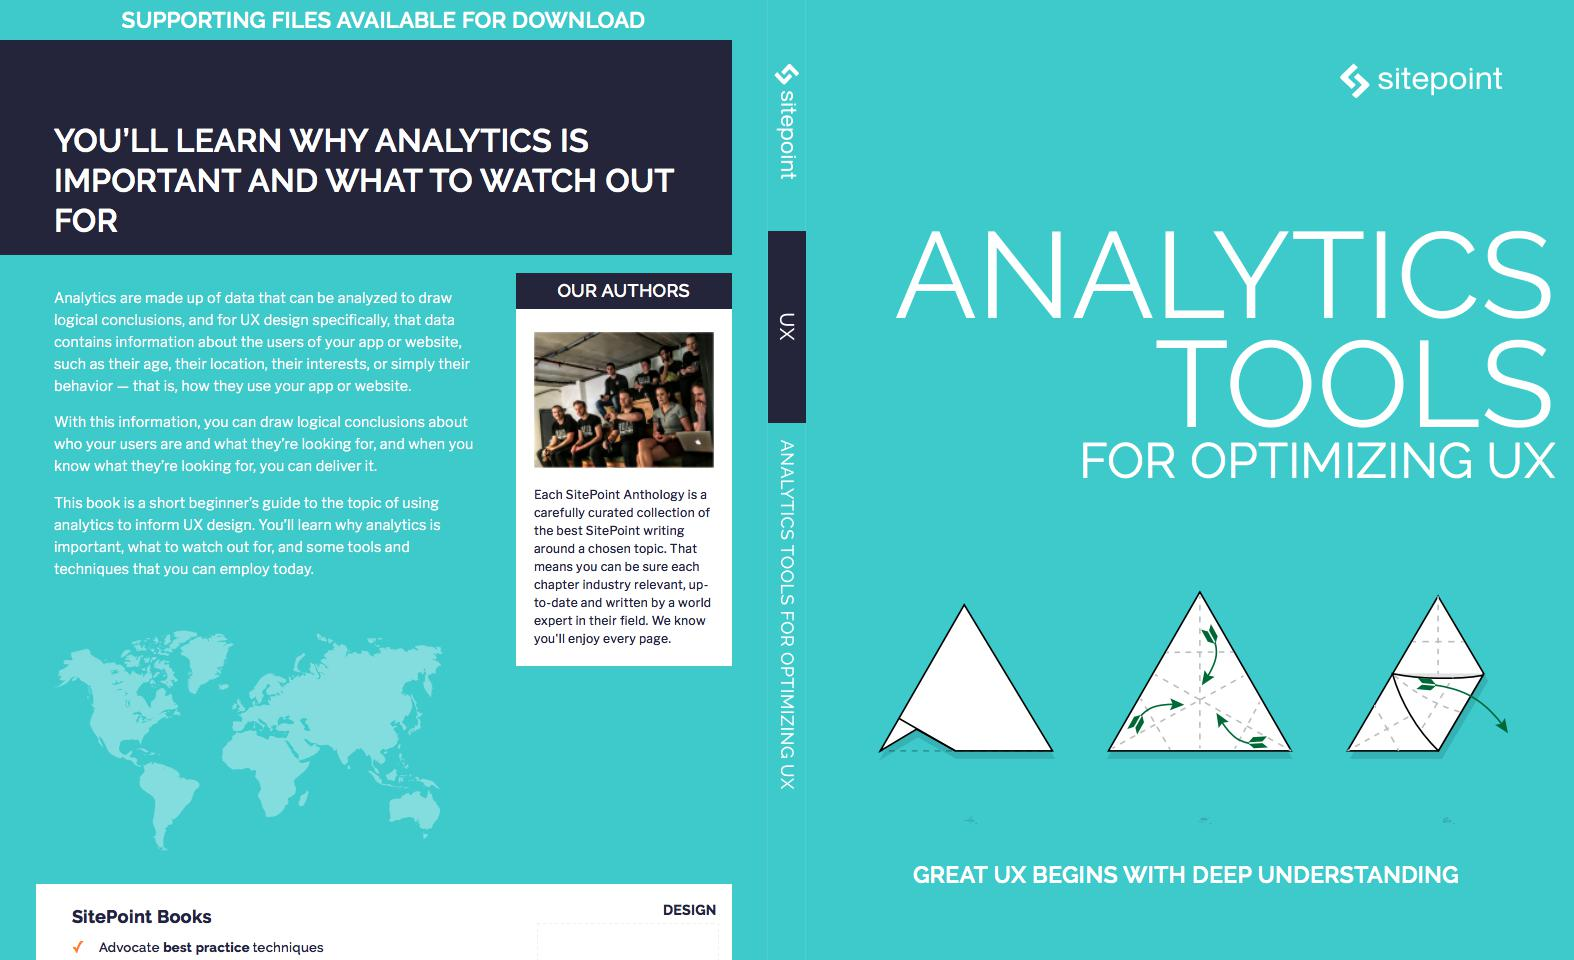
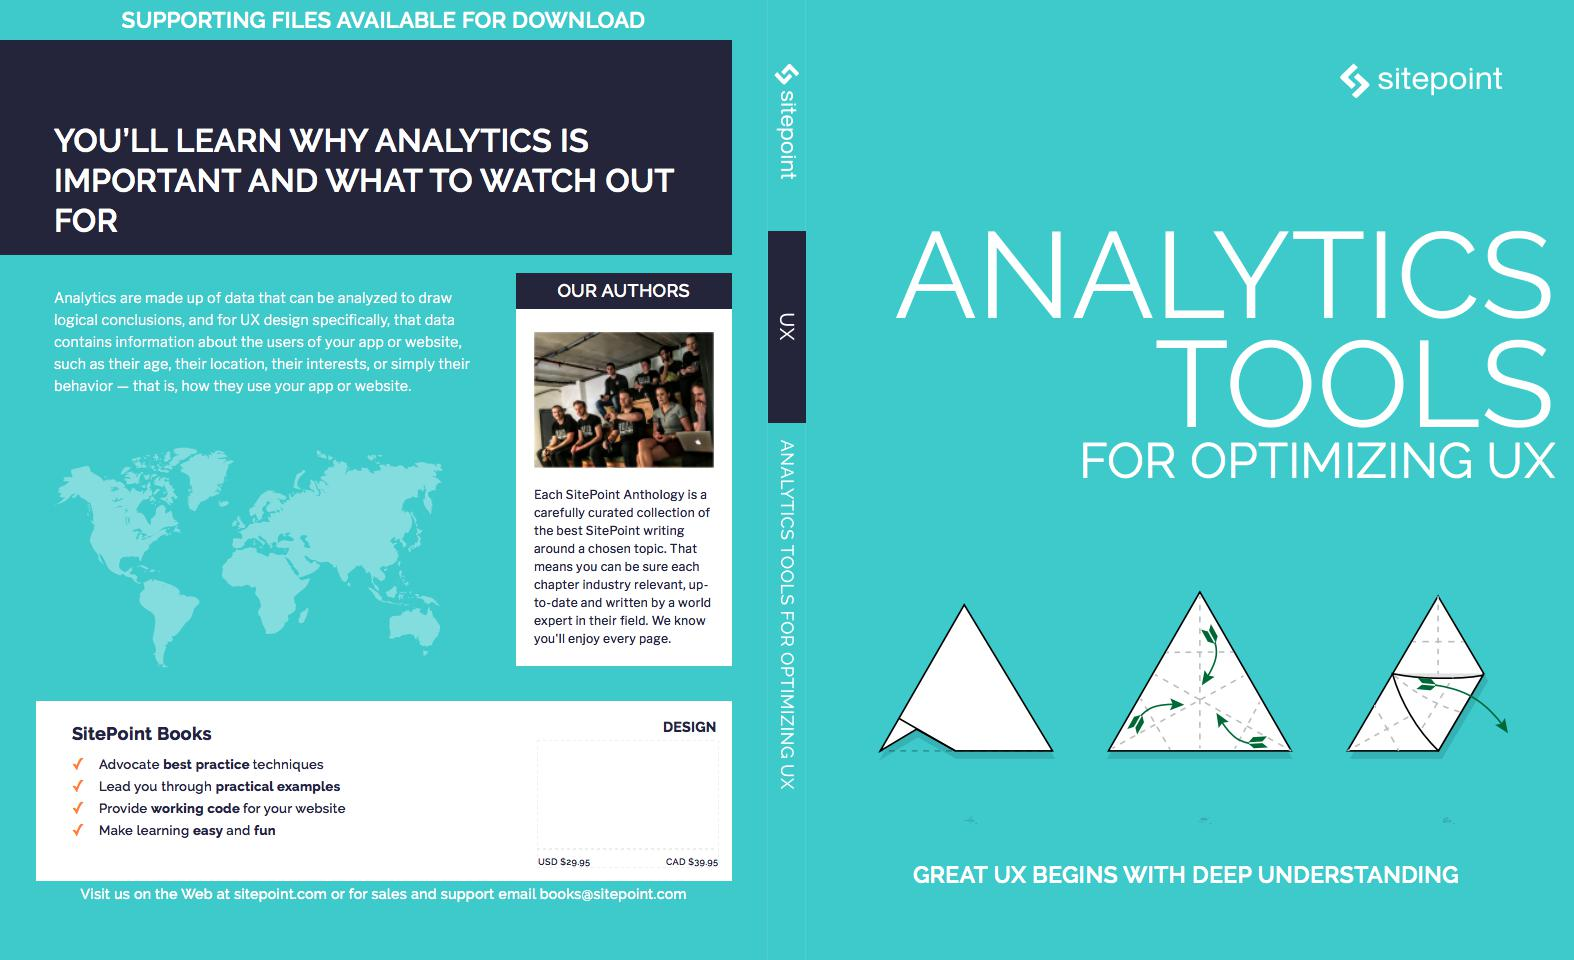
analytics book 2

Changed region(s): [[0.0, 0.4375, 0.467, 1.0]]

diff --git a/src/docs/html/cover-spread.html b/src/docs/html/cover-spread.html
@@ -17,8 +17,6 @@
 .author-box h4 {
   background: #24243B;
   }</style><!-- SVG Start: logo symbol--><svg width="0" height="0" style="display: none;"><defs><style>.cls-1{fill:none;}.cls-2{clip-path:url(#clip-path);}.cls-3{fill:#fff;}</style><clippath id="clip-path"><rect class="cls-1" width="131.9" height="28.83"></rect></clippath><symbol id="SitePoint_Logo_" data-name="SitePoint Logo " viewbox="0 0 131.9 28.8"><g class="cls-2"><path class="cls-3" d="M33.8,10.9a2.4,2.4,0,0,1,.9-.8l1.1-.4,1.4-.2h1.1l1.1.3a1.6,1.6,0,0,1,.8.6,1.9,1.9,0,0,1,.3,1,1.3,1.3,0,0,1-.7,1.3,3.3,3.3,0,0,1-1.6.7L36,14l-2.2.6a4.8,4.8,0,0,0-1.6,1.2,2.6,2.6,0,0,0-.7,2,2.6,2.6,0,0,0,.5,1.7,3.4,3.4,0,0,0,1.2,1.2,4.6,4.6,0,0,0,1.6.7l1.8.2,2.2-.2a3.6,3.6,0,0,0,1.7-.7,2.4,2.4,0,0,0,1.3-1.3,4.6,4.6,0,0,0,.5-2H40a2,2,0,0,1-.3,1.1l-.8.7-1,.3H35.8l-.9-.3a1.2,1.2,0,0,1-.7-.5,1.3,1.3,0,0,1,.1-1.8,2.4,2.4,0,0,1,1.1-.6l1.4-.4,1.6-.4,1.7-.4a3.7,3.7,0,0,0,1.4-.7,3.6,3.6,0,0,0,1-1.1,2.2,2.2,0,0,0,.4-1.6,4.6,4.6,0,0,0-.5-2A5.3,5.3,0,0,0,41,8.5l-1.9-.7L37,7.6a7.6,7.6,0,0,0-2.1.3,6.2,6.2,0,0,0-1.9.7A5.7,5.7,0,0,0,31.7,10a5.4,5.4,0,0,0-.5,2.1h2.3a2.7,2.7,0,0,1,.3-1.2"></path><rect class="cls-3" x="45.6" y="8" width="2.3" height="13.35"></rect><path class="cls-3" d="M57.2,21.3v-2H54.5V11a1.3,1.3,0,0,1,.1-.6c0-.1.1-.3.2-.3l.5-.2h1.9v-2H54l-1,.5a1.6,1.6,0,0,0-.6.8,7.7,7.7,0,0,0-.2,1.5v8.6H49.9v2h2.3v4h2.3v-4Z"></path><path class="cls-3" d="M69.5,8.8a6.7,6.7,0,0,0-3.9-1.2,8.7,8.7,0,0,0-2.8.5,8,8,0,0,0-2.1,1.5,5.3,5.3,0,0,0-1.2,2.2,9.2,9.2,0,0,0-.5,2.8,8.7,8.7,0,0,0,.5,2.8,6.1,6.1,0,0,0,1.3,2.2,8,8,0,0,0,2.1,1.5,5.8,5.8,0,0,0,2.6.5,4.6,4.6,0,0,0,3-.8,4.9,4.9,0,0,0,2-1.8,6.9,6.9,0,0,0,1-2.5,7.4,7.4,0,0,0,.2-2.6H61.4a10,10,0,0,1,.2-1.6,2.9,2.9,0,0,1,.8-1.4,3.6,3.6,0,0,1,1.4-1,5.8,5.8,0,0,1,1.9-.4,4.8,4.8,0,0,1,2.4.7,3.2,3.2,0,0,1,1.2,2h2.2a5.5,5.5,0,0,0-2-3.4M69,17.3a2.7,2.7,0,0,1-.9,1.2,2,2,0,0,1-1.2.8l-1.5.3a4.5,4.5,0,0,1-1.6-.3,2,2,0,0,1-1.2-.8,2.7,2.7,0,0,1-.9-1.2,3.2,3.2,0,0,1-.3-1.4h7.9a3.2,3.2,0,0,1-.3,1.4"></path><path class="cls-3" d="M76.4,21.3V19.5h.1a3.7,3.7,0,0,0,1.7,1.6,6.5,6.5,0,0,0,2.7.5,5.5,5.5,0,0,0,2.8-.6,4.5,4.5,0,0,0,1.9-1.5,4.6,4.6,0,0,0,1.2-2.3,7.5,7.5,0,0,0,.4-2.6,8.4,8.4,0,0,0-.4-2.7,6.5,6.5,0,0,0-1.1-2.2,5,5,0,0,0-2-1.5,6.7,6.7,0,0,0-2.8-.6H79.8L78.6,8l-1.2.6a2.8,2.8,0,0,0-.9,1h-.1V2.8H74.2V21.3Zm8.2-4.8a3,3,0,0,1-.8,1.6,2.8,2.8,0,0,1-1.3,1.1,3.1,3.1,0,0,1-1.9.4,3.4,3.4,0,0,1-2-.4,4.5,4.5,0,0,1-1.3-1.1,5.1,5.1,0,0,1-.7-1.7,5.2,5.2,0,0,1-.3-1.8,6.3,6.3,0,0,1,.3-1.9,5.6,5.6,0,0,1,.7-1.6L78.7,10a4.6,4.6,0,0,1,2-.5,3.9,3.9,0,0,1,3.2,1.6,5.1,5.1,0,0,1,.7,1.7,6.2,6.2,0,0,1,.2,1.9,11,11,0,0,1-.2,1.8"></path><path class="cls-3" d="M89.6,17.3a5.8,5.8,0,0,0,1.3,2.3A4.1,4.1,0,0,0,93,21a4.9,4.9,0,0,0,2.9.6,5.5,5.5,0,0,0,2.8-.6,4.1,4.1,0,0,0,2.1-1.4,5.8,5.8,0,0,0,1.3-2.3,7.6,7.6,0,0,0,.5-2.7,9.2,9.2,0,0,0-.5-2.8,7.1,7.1,0,0,0-1.3-2.2,6,6,0,0,0-2.1-1.4,6.7,6.7,0,0,0-2.8-.6,7.2,7.2,0,0,0-2.9.6,6,6,0,0,0-2.1,1.4,7.1,7.1,0,0,0-1.3,2.2,9,9,0,0,0-.4,2.8,8,8,0,0,0,.4,2.7m2.3-4.9a5.1,5.1,0,0,1,.9-1.6,4.2,4.2,0,0,1,1.4-.9,3.8,3.8,0,0,1,3.3,0,4.2,4.2,0,0,1,1.4.9,5.1,5.1,0,0,1,.9,1.6,8.5,8.5,0,0,1,.4,2.2,7.1,7.1,0,0,1-.4,2.1,4.2,4.2,0,0,1-.9,1.6,3.3,3.3,0,0,1-1.4,1,4.5,4.5,0,0,1-1.6.3,4.7,4.7,0,0,1-1.7-.3,3.3,3.3,0,0,1-1.4-1,4.2,4.2,0,0,1-.9-1.6,7.1,7.1,0,0,1-.3-2.1,8.3,8.3,0,0,1,.3-2.2"></path><rect class="cls-3" x="105.4" y="8" width="2.3" height="13.35"></rect><path class="cls-3" d="M113.3,21.3V19.1h0a4.7,4.7,0,0,0,4.5,2.5,4.5,4.5,0,0,0,2.3-.4,3.1,3.1,0,0,0,1.5-1,3.5,3.5,0,0,0,.7-1.5,6.4,6.4,0,0,0,.3-2V7.9h-2.3V17a2.6,2.6,0,0,1-.7,1.9,2.7,2.7,0,0,1-2.1.7,5.7,5.7,0,0,1-1.8-.3,3.5,3.5,0,0,1-1.3-.8,3.7,3.7,0,0,1-.7-1.4,4.1,4.1,0,0,1-.3-1.6V7.9h-2.3V21.3Z"></path><path class="cls-3" d="M131.9,21.3v-2h-2.8V11c0-.2.1-.4.1-.6a.3.3,0,0,1,.3-.3h0l.5-.2h1.9v-2h-3.3a3.1,3.1,0,0,0-1,.5,3.5,3.5,0,0,0-.5.8,3.9,3.9,0,0,0-.2,1.5v8.6h-2.4v2h2.4v4h2.2v-4Z"></path><path class="cls-3" d="M.8,16.1l2.1-2L9.5,7.9l2.8,2.8a.9.9,0,0,1,0,1.2L9.7,14.2h0L6.9,16.9a1.1,1.1,0,0,0,0,1.3l7.6,7.3L11,28.8,2.9,20.9l-2.1-2a1.9,1.9,0,0,1-.1-2.7H.8"></path><path class="cls-3" d="M23.3,12.6l-2.1,2.1-6.6,6.1-2.8-2.7a.9.9,0,0,1,0-1.2l2.6-2.3h0l2.8-2.7a1.1,1.1,0,0,0,0-1.3L9.6,3.3,13.1,0l8.1,7.8,2.1,2.1a2,2,0,0,1,.2,2.6h-.2"></path><path class="cls-3" d="M48,24a1.3,1.3,0,1,0-1.3,1.3h0A1.3,1.3,0,0,0,48,24"></path><path class="cls-3" d="M107.8,24a1.3,1.3,0,1,0-1.3,1.3,1.3,1.3,0,0,0,1.3-1.3h0"></path></g></symbol><symbol id="BG-single" data-name="BG-single" viewbox="0 0 144.8 31.5"><use width="131.9" height="28.83" transform="matrix(1.1, 0, 0, -1.09, 0, 31.5)" xlink:href="#SitePoint_Logo_"></use></symbol></defs><title>sitepoint-white</title><g id="Layer_2" data-name="Layer 2"><g id="Layer_1-2" data-name="Layer 1"><use width="144.8" height="31.5" xlink:href="#BG-single"> </use></g></g></svg></head><body><div class="container" id="bookcoverSpread"><div class="row"><div class="column page back"><div class="toptag">Supporting files available for Download</div><div class="backpitch">You’ll learn why analytics is important and what to watch out for</div><div class="backtext"><p>Analytics are made up of data that can be analyzed to draw logical conclusions, and for UX design specifically, that data contains information about the users of your app or website, such as their age, their location, their interests, or simply their behavior — that is, how they use your app or website.</p>
-<p>With this information, you can draw logical conclusions about who your users are and what they’re looking for, and when you know what they’re looking for, you can deliver it.</p>
-<p>This book is a short beginner’s guide to the topic of using analytics to inform UX design. You’ll learn why analytics is important, what to watch out for, and some tools and techniques that you can employ today.</p>
                 <img src="../images/SVG/map.svg"/></div>              <div class="author-box"><h4>Our Authors</h4>                <div class="author-profile"><img src="../images/crew.jpg" alt="The Crew"/></div><p>Each SitePoint Anthology is a carefully curated collection of the best SitePoint writing around a chosen topic. That means you can be sure each chapter industry relevant, up-to-date and written by a world expert in their field. We know you'll enjoy every page.</p></div><div class="infobox"><div class="points"><h4>SitePoint Books</h4>                  <ul><li>Advocate <strong>best practice</strong> techniques</li>                    <li>Lead you through <strong>practical examples</strong></li>                    <li>Provide <strong>working code</strong> for your website</li>                    <li>Make learning <strong>easy</strong> and <strong>fun</strong></li></ul></div>                <div class="bookID"><h5>DESIGN</h5>                    <div class="barcode"><!-- no barcode here--></div>                    <div class="prices"><span class="usd">USD $29.95</span><span class="cad">CAD $39.95</span></div></div></div> 
                 <p class="small">Visit us on the Web at sitepoint.com or for sales and support email books@sitepoint.com</p></div> 
           

diff --git a/src/docs/md/cover-spread.md b/src/docs/md/cover-spread.md
@@ -5,10 +5,8 @@ template: cover-spread.pug
 
 
 [//]: # (Feel free to edit any of the values above or MD below.)
-[//]: # (You changes will be included in the new Markade generated HTML)
+[//]: # (Your changes will be included in the new Markade generated HTML)
 
 Analytics are made up of data that can be analyzed to draw logical conclusions, and for UX design specifically, that data contains information about the users of your app or website, such as their age, their location, their interests, or simply their behavior — that is, how they use your app or website.
 
-With this information, you can draw logical conclusions about who your users are and what they’re looking for, and when you know what they’re looking for, you can deliver it.
-
-This book is a short beginner’s guide to the topic of using analytics to inform UX design. You’ll learn why analytics is important, what to watch out for, and some tools and techniques that you can employ today.
+[//]: # (Don't make this longer than a paragraph or it will push content off the bottom of the page.)
